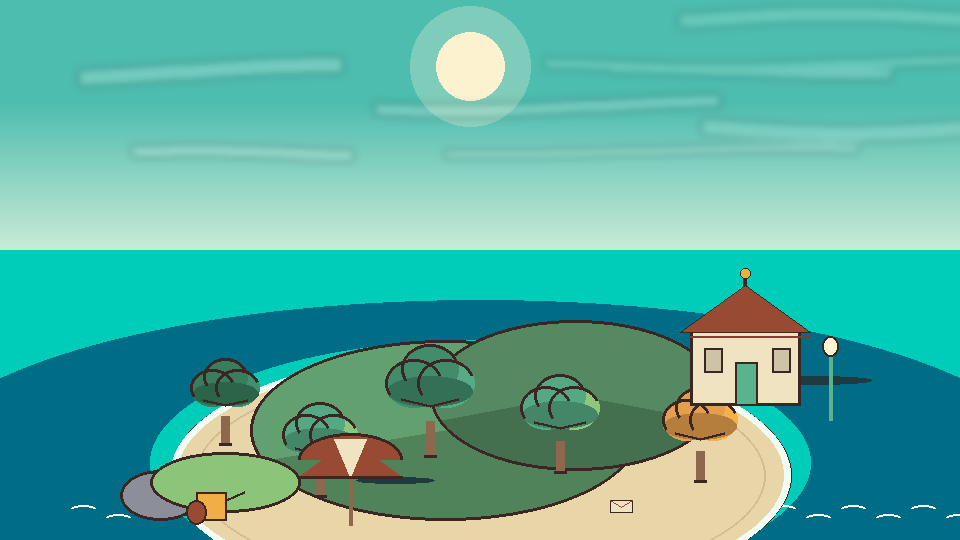
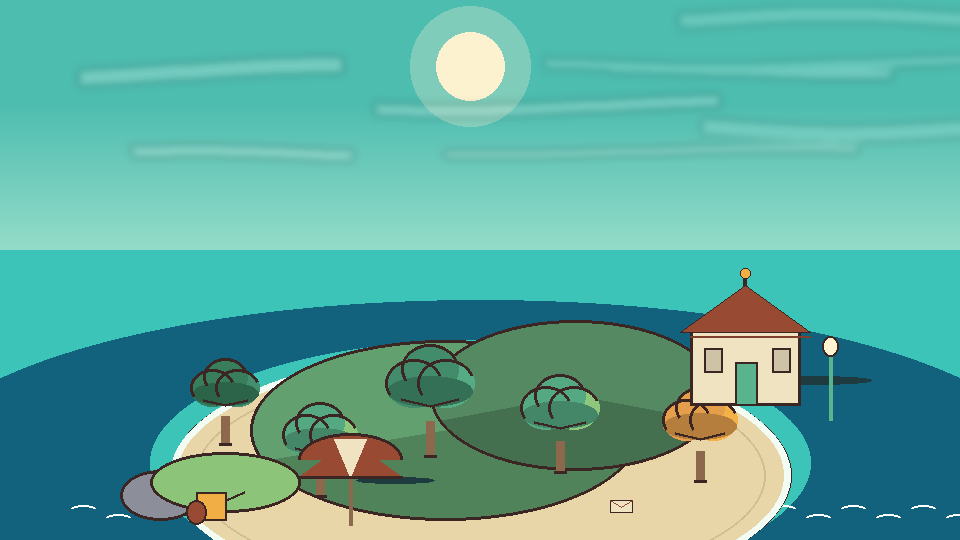
visual: kalibrasi eksposur siang (matahari 0.8/ambient 0.7), horizon mint jenuh, foam ramping, kontras biome & air, kabut 0.0015 — anti-wash-out

diff --git a/tools/style_preview.py b/tools/style_preview.py
@@ -23,7 +23,7 @@ PAL = dict(
     orange=(228, 158, 76), orange_d=(196, 130, 62), trunk=(140, 105, 77),
     rock=(140, 143, 153), cream=(240, 227, 194), terra=(153, 74, 51),
     terra_d=(128, 62, 45), teal=(89, 179, 140), ochre=(240, 174, 68),
-    shallow=(0, 204, 186), deep=(0, 108, 134), foam=(242, 252, 242),
+    shallow=(61, 196, 184), deep=(18, 97, 125), foam=(242, 252, 242),
 )
 ENV = {  # warna ambience siang/senja/malam persis world.gd
     "day": dict(tint=(1.0, 1.0, 1.0), fade=0.0, key=1.0, nom="day"),
@@ -101,7 +101,7 @@ def scene(name, e):
     global SUN_POS, SUN_F
     SUN_POS = {"day": (470, 66), "dusk": (150, 300), "night": (760, 90)}[e["nom"]]
     SUN_F = {"day": (255, 243, 209), "dusk": (255, 214, 160), "night": (220, 230, 250)}[e["nom"]]
-    hor = {"day": (219, 242, 219), "dusk": (242, 204, 158), "night": (26, 38, 56)}[e["nom"]]
+    hor = {"day": (158, 224, 204), "dusk": (242, 204, 158), "night": (26, 38, 56)}[e["nom"]]
     zen = {"day": (77, 189, 176), "dusk": (41, 87, 112), "night": (13, 23, 41)}[e["nom"]]
     gnd = (92, 112, 112) if e["nom"] != "night" else (26, 38, 56)
     im = grad_sky({"h": hor, "z": zen, "g": gnd})
